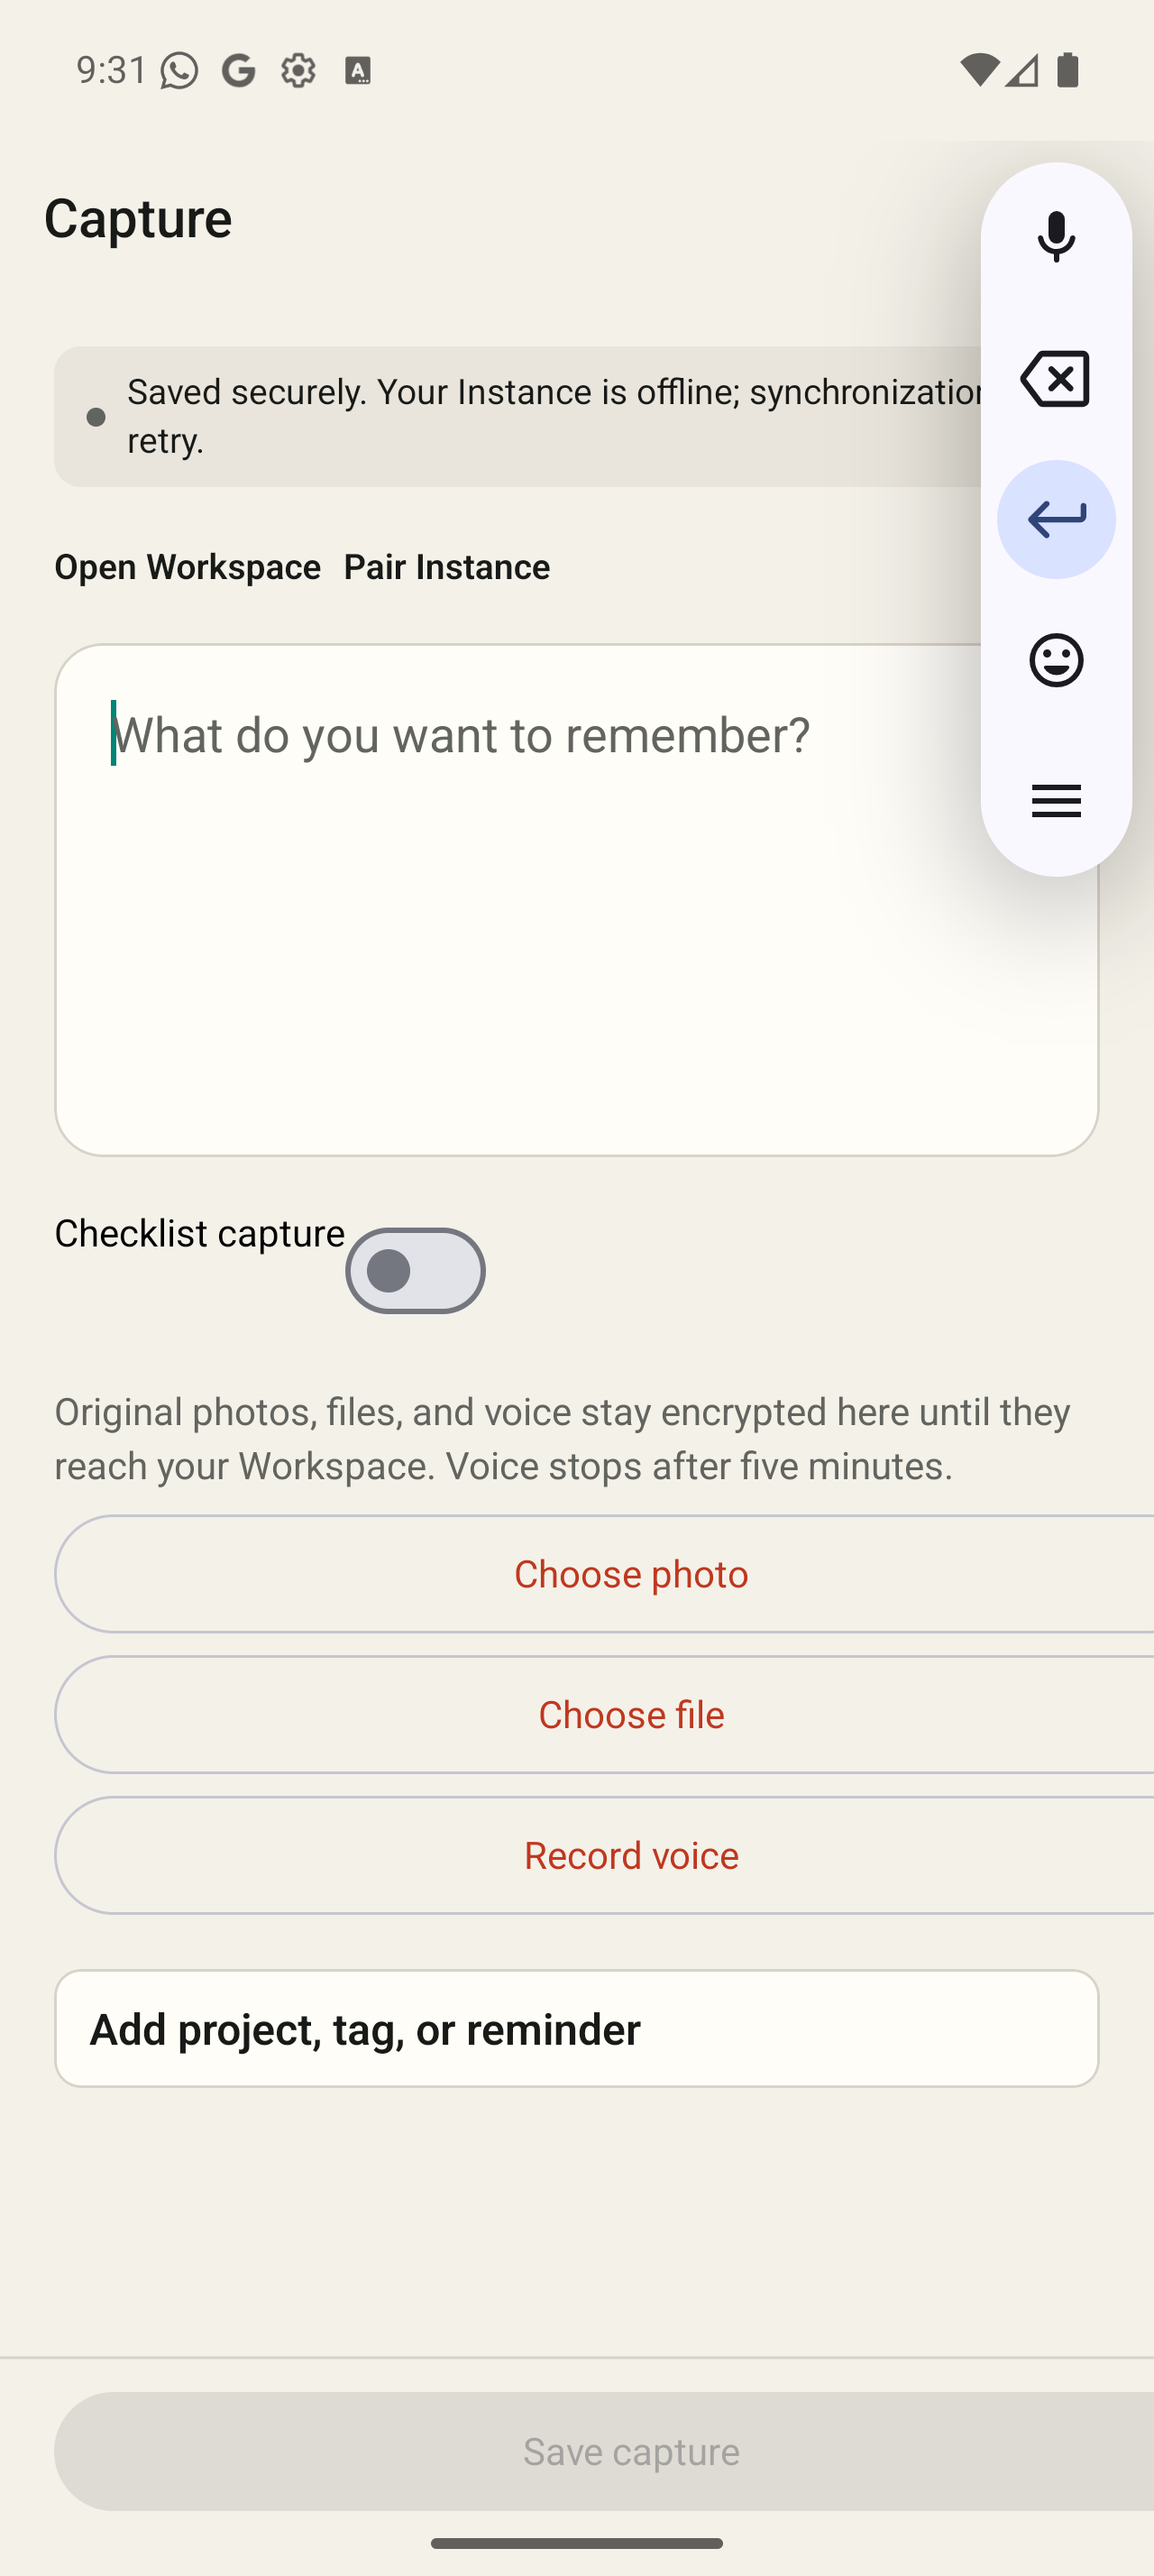
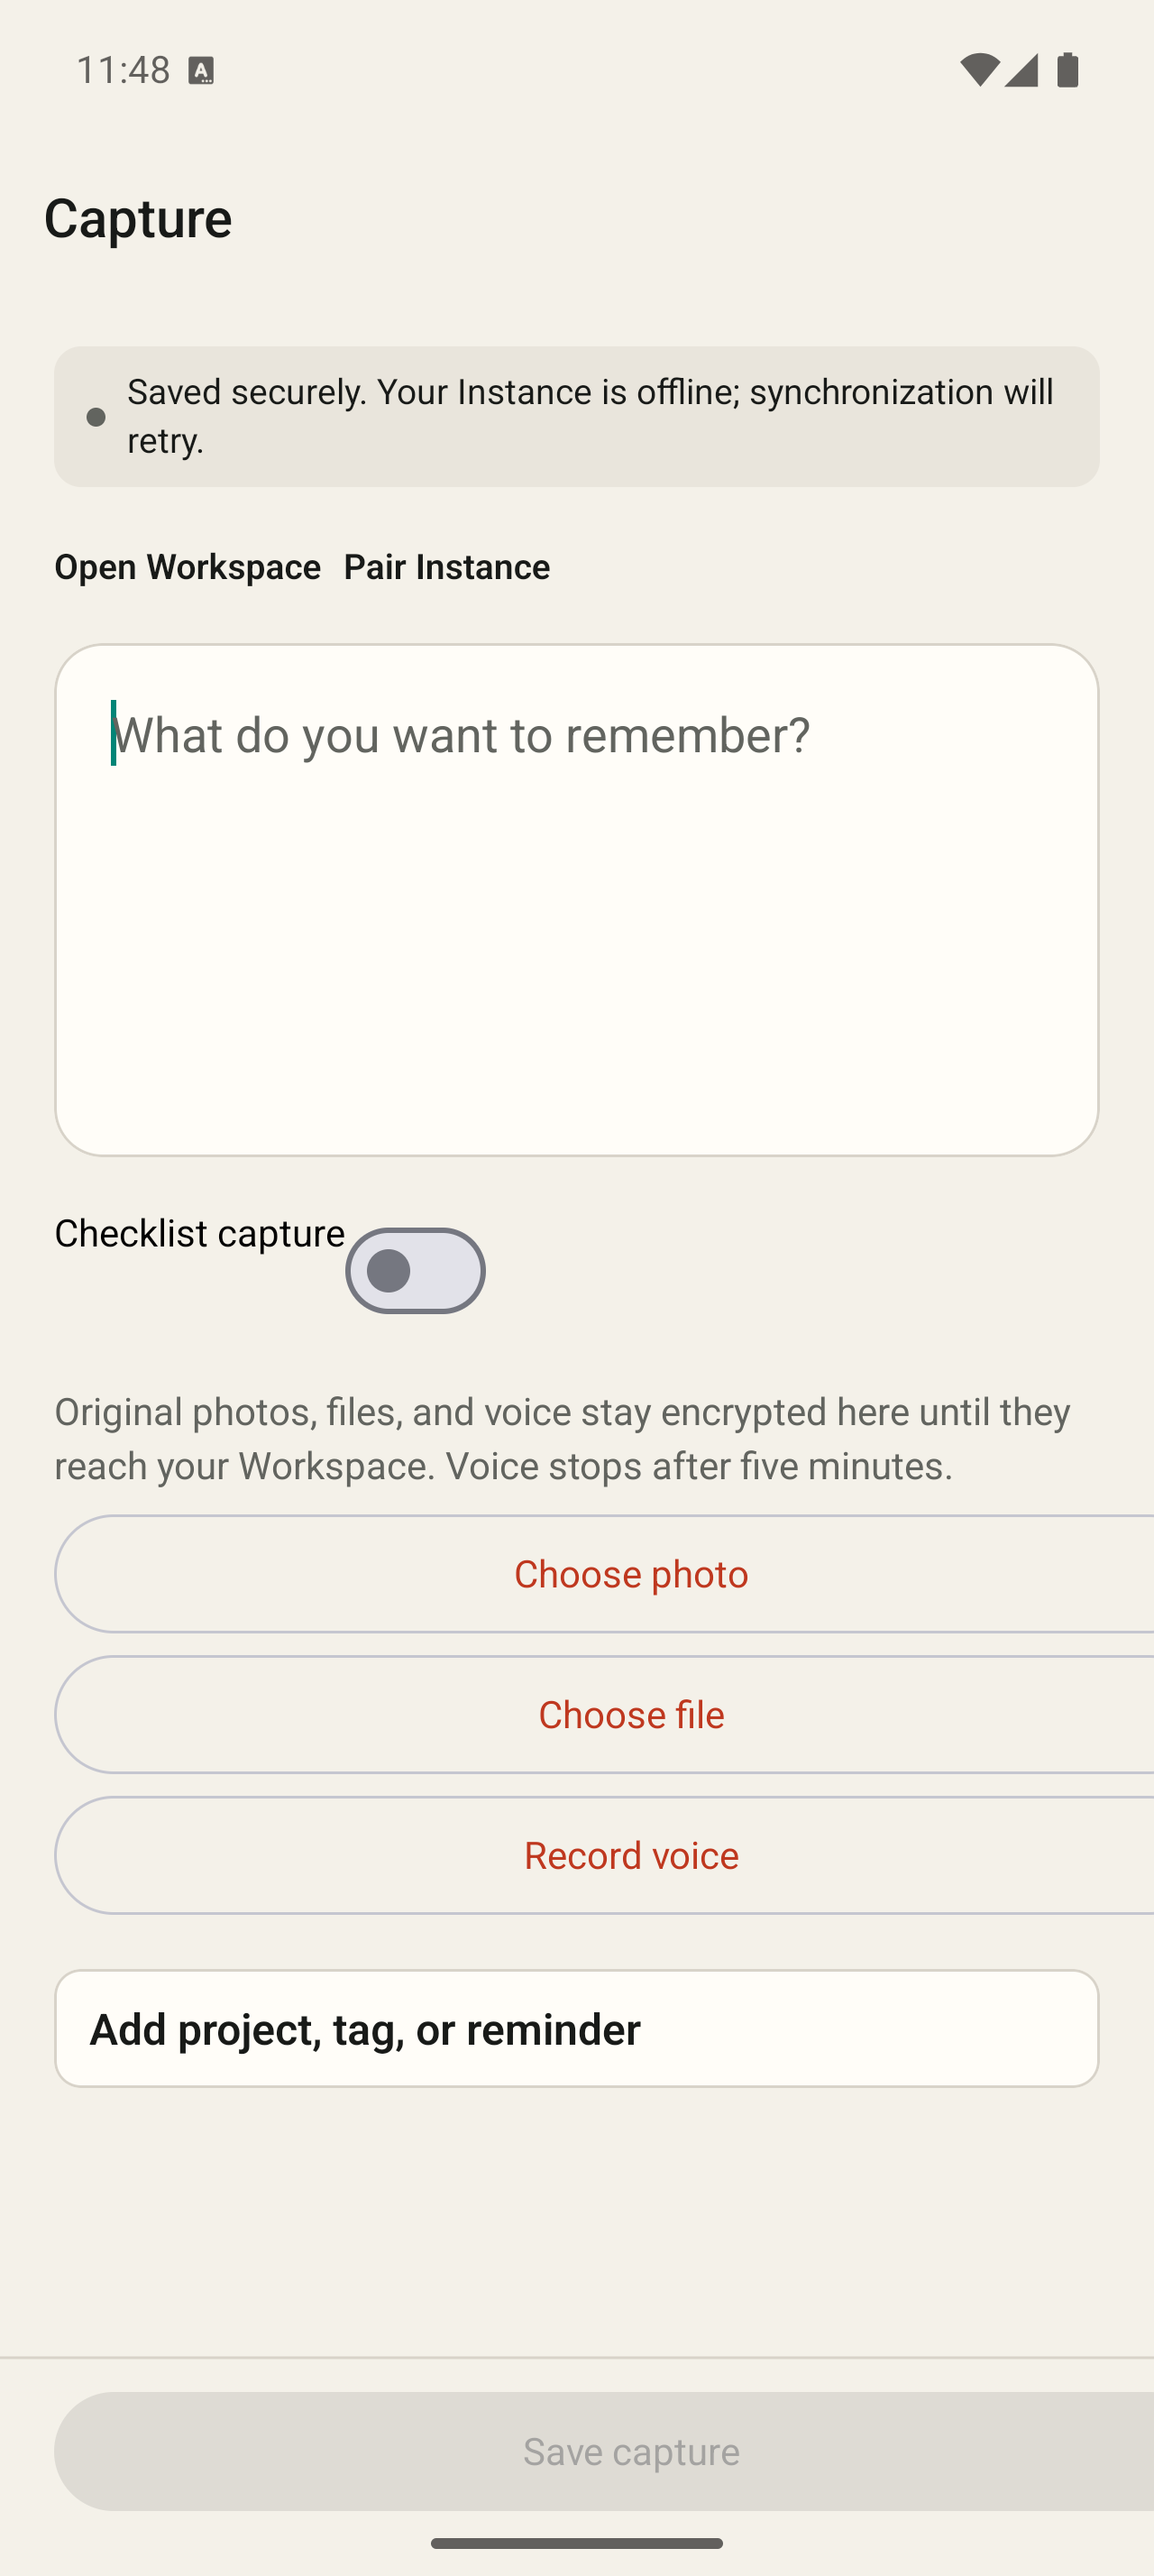
fix(release): close design-system gate findings

diff --git a/src/instance-operations/storage/postgres-instance-migration-store.ts b/src/instance-operations/storage/postgres-instance-migration-store.ts
@@ -9,8 +9,7 @@ import type { PostgresPortableProjectionContributor } from "./portable-projectio
 import { PostgresKernel, type PostgresQueryable } from "./postgres-kernel.js";
 
 const authenticationKeyCheckLockId = 795_541_992;
-const portableProjectionObjectKinds = ["Workspace", "Project", "Workflow", "WorkspaceWorkflow", "Collection", "ViewBlock", "Board", "Note", "NoteLocation", "NoteLink", "Task", "GuestProjectAccess", "RepositoryConnection", "Attachment", "Discussion", "DiscussionWorkLink", "Activity"] as const;
-const portableProjectionObjectKindSql = portableProjectionObjectKinds.map((kind) => `'${kind}'`).join(", ");
+const corePortableProjectionObjectKinds = ["Workspace", "Project", "Workflow", "WorkspaceWorkflow", "Collection", "ViewBlock", "Board", "Note", "NoteLocation", "NoteLink", "Task", "GuestProjectAccess", "RepositoryConnection", "Attachment", "Discussion", "DiscussionWorkLink", "Activity"] as const;
 
 export interface PostgresInstanceMigrationHooks {
   prepareRegistration(client: PostgresQueryable): Promise<void>;
@@ -423,6 +422,11 @@ export class PostgresInstanceMigrationStore {
 
   async ensurePortableProjectionSchema(client: PostgresQueryable): Promise<void> {
     await this.kernel.advisoryTransactionLock(client, 1_094_218_495);
+    const portableProjectionObjectKinds = [...new Set([
+      ...corePortableProjectionObjectKinds,
+      ...this.hooks.portableProjectionContributors.flatMap(({ portableObjectKinds }) => portableObjectKinds),
+    ])];
+    const portableProjectionObjectKindSql = portableProjectionObjectKinds.map((kind) => `'${kind}'`).join(", ");
     await client.query(`
         CREATE TABLE IF NOT EXISTS stash_portable_projection_outbox (
           object_kind TEXT NOT NULL CONSTRAINT stash_portable_projection_outbox_object_kind_check CHECK (object_kind IN (${portableProjectionObjectKindSql})),

diff --git a/src/postgres-database.ts b/src/postgres-database.ts
@@ -97,9 +97,6 @@ export type { DevelopmentIntegrationPostgresRepositories } from "./development-i
 // First 31 bits of SHA-256("stash:authentication-key-check:v1"); reserved in Stash's
 // PostgreSQL advisory-lock ID domain for serializing only the authentication key-check transaction.
 const authenticationKeyCheckLockId = 795_541_992;
-const portableProjectionObjectKinds = ["Workspace", "Project", "Workflow", "WorkspaceWorkflow", "Collection", "ViewBlock", "Board", "Note", "NoteLocation", "NoteLink", "Task", "GuestProjectAccess", "RepositoryConnection", "Attachment", "Discussion", "DiscussionWorkLink", "Activity",
-  ...PostgresVisualizationBlockRepository.portableObjectKinds] as const;
-const portableProjectionObjectKindSql = portableProjectionObjectKinds.map((kind) => `'${kind}'`).join(", ");
 const repositoryConnectionSelect = `SELECT connection.id, connection.organization_id, connection.provider, connection.installation_id,
   connection.repository_id, connection.repository_url, connection.created_by_account_id, connection.created_by_attribution,
   connection.ownership, connection.state,

diff --git a/tests/embedded-migration.test.ts b/tests/embedded-migration.test.ts
@@ -123,6 +123,9 @@ describe("embedded-to-PostgreSQL migration key preflight", () => {
     assert.ok(statements.some((sql) => sql.includes("pg_class")));
     assert.ok(statements.some((sql) => sql.includes("pg_proc")));
     assert.ok(statements.some((sql) => sql.includes("pg_type")));
+    const portableSchema = statements.find((sql) => sql.includes("CREATE TABLE IF NOT EXISTS stash_portable_projection_outbox"));
+    assert.match(portableSchema ?? "", /'VisualizationBlock'/,
+      "the portable projection constraint must include capability-contributed object kinds");
     assert.ok(statements.some((sql) => /'f'.*'c'.*'i'.*'I'/.test(sql)), "foreign tables, composite types, and indexes must be rejected");
     for (const catalog of ["pg_collation", "pg_operator", "pg_opfamily", "pg_opclass", "pg_conversion", "pg_ts_config", "pg_ts_dict",
       "pg_ts_parser", "pg_ts_template", "pg_statistic_ext", "pg_extension", "pg_constraint", "pg_default_acl"]) {

diff --git a/tests/knowledge-authoring/mobile-native-entrypoints.test.ts b/tests/knowledge-authoring/mobile-native-entrypoints.test.ts
@@ -15,6 +15,11 @@ describe("native mobile capture entry points", () => {
     assert.deepEqual(sharing?.[1].android.singleShareMimeTypes, ["text/*", "image/*", "audio/*", "application/*"]);
   });
 
+  it("routes the native sharing handoff into the capture inbox drain", async () => {
+    const route = await readFile(new URL("../../apps/mobile/app/expo-sharing.tsx", import.meta.url), "utf8");
+    assert.match(route, /<Redirect href="\/"\s*\/>/);
+  });
+
   it("ships iOS and Android widget providers that invoke the validated capture boundary", async () => {
     const swift = await readFile(new URL("../../apps/mobile/targets/capture-widget/StashCaptureWidget.swift", import.meta.url), "utf8");
     const plugin = await readFile(new URL("../../apps/mobile/plugins/with-android-capture-widget.js", import.meta.url), "utf8");

diff --git a/src/knowledge-authoring/postgres-visualization-block-repository.ts b/src/knowledge-authoring/postgres-visualization-block-repository.ts
@@ -38,6 +38,7 @@ function permissionFilteredDefinition(definition: VisualizationDefinition, visib
 
 export class PostgresVisualizationBlockRepository implements VisualizationBlockRepository, PostgresPortableProjectionContributor {
   static readonly portableObjectKinds = ["VisualizationBlock"] as const;
+  readonly portableObjectKinds = PostgresVisualizationBlockRepository.portableObjectKinds;
   constructor(private readonly kernel: PostgresKernel, private readonly prepareNotes: PrepareNotes) {}
   async prepare(client: PostgresQueryable): Promise<void> {
     await this.prepareNotes(client);

diff --git a/src/instance-operations/storage/portable-projection-contributor.ts b/src/instance-operations/storage/portable-projection-contributor.ts
@@ -3,6 +3,7 @@ import type { PostgresQueryable } from "./postgres-kernel.js";
 
 /** Capability-owned durable projections, without teaching the database kernel capability tables or schemas. */
 export interface PostgresPortableProjectionContributor {
+  readonly portableObjectKinds: readonly string[];
   preparePortableObjects(client: PostgresQueryable): Promise<void>;
   importPortableObjects(client: PostgresQueryable, objects: readonly PortableDurableObject[], workspaceId: string): Promise<void>;
   readPortableObjects(client: PostgresQueryable, input: {

diff --git a/apps/web/vite.config.ts b/apps/web/vite.config.ts
@@ -3,5 +3,5 @@ import { defineConfig } from "vite";
 
 export default defineConfig({
   plugins: [react()],
-  test: { environment: "jsdom", setupFiles: "./src/test-setup.ts" },
+  test: { environment: "jsdom", maxWorkers: 4, setupFiles: "./src/test-setup.ts" },
 });

diff --git a/apps/mobile/app/expo-sharing.tsx b/apps/mobile/app/expo-sharing.tsx
@@ -1,0 +1,5 @@
+import { Redirect } from "expo-router";
+
+export default function ExpoSharingHandoff() {
+  return <Redirect href="/" />;
+}

diff --git a/docs/design/stash-mobile-direction/README.md b/docs/design/stash-mobile-direction/README.md
@@ -1,0 +1,34 @@
+# Stash mobile direction references
+
+These eight files are current implementation evidence captured from the native Android client. They replace the legacy direction artwork that previously occupied seven slots and the older Task 5 Android image that occupied the offline slot. Do not substitute browser, Expo web, mockup, or generated artwork for these files.
+
+## Inventory
+
+| File | Verified state | Status | SHA-256 |
+| --- | --- | --- | --- |
[8 lines of base64/hex data omitted]
+
+Every PNG is the byte-exact output of Android `screencap`, 1280 by 2856 pixels, RGBA, without a device frame or post-capture retouching.
+
+## Capture provenance
+
+- Captured 2026-08-28/29 from package `app.stash.capture` on the local Android Emulator AVD `Pixel_9_Pro_API_36` (`sdk_gphone64_arm64`), Android 16 / API 36, 1280 by 2856.
[1 lines of base64/hex data omitted]
+- Paired against a disposable HTTPS acceptance fixture backed by the real `startInstance` and `MobileCaptureService` paths. A disposable CA was trusted only by the temporary debug build, and `adb reverse tcp:43128 tcp:43128` connected the emulator to the fixture.
+- Offline evidence was produced by removing the reverse mapping before saving, then restoring it so the queued capture could synchronize.
+- Share evidence was produced through Android's real `ACTION_SEND` intent into `app.stash.capture/.MainActivity`. `07-shared-to-stash.png` intentionally shows the post-handoff synchronized Capture screen; the share payload is not echoed in this success state.
+- Attention evidence used a fixture response that returned the real invalid-session condition. The client retained the outbox item and displayed `A valid Member session is required.`
+- iOS was not captured or verified. These references document the current Android implementation only.
+
+## Visual review
+
+The complete contact sheet was inspected after capture. The journey uses one warm-paper surface language, carbon hierarchy, compact native controls, and a restrained status system. Vermilion remains concentrated on decisive actions, enabled controls, navigation emphasis, and attention; it is not repeated as decoration. Long status text wraps without clipping, the Android keyboard and system bars remain honest device context, the full Project/Tag/Reminder group fits without horizontal overflow, and the offline and invalid-session states are distinguishable without relying on color alone.
+
+The files are intentionally raw product references rather than polished marketing screens. Regenerate all affected states from a verified native client whenever the mobile capture flow or its visual system changes, update this inventory and hashes, and inspect the complete contact sheet before committing.
